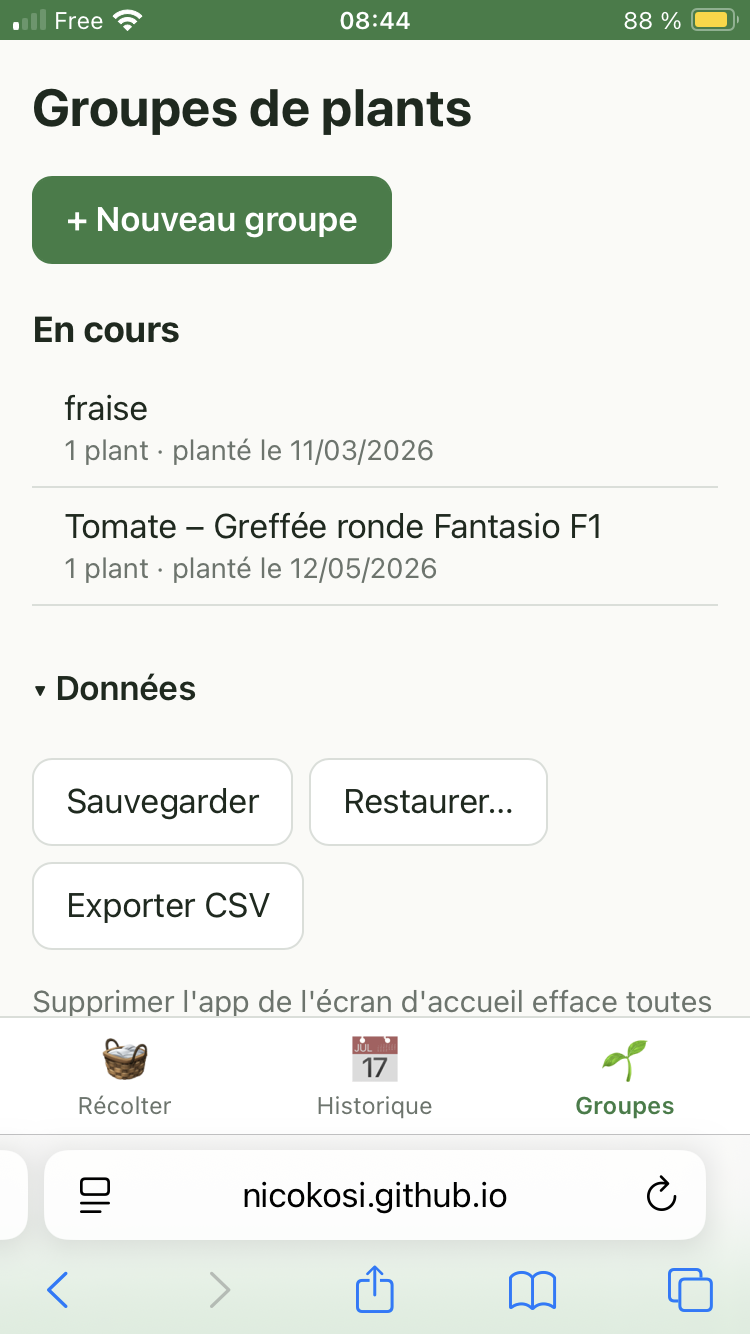
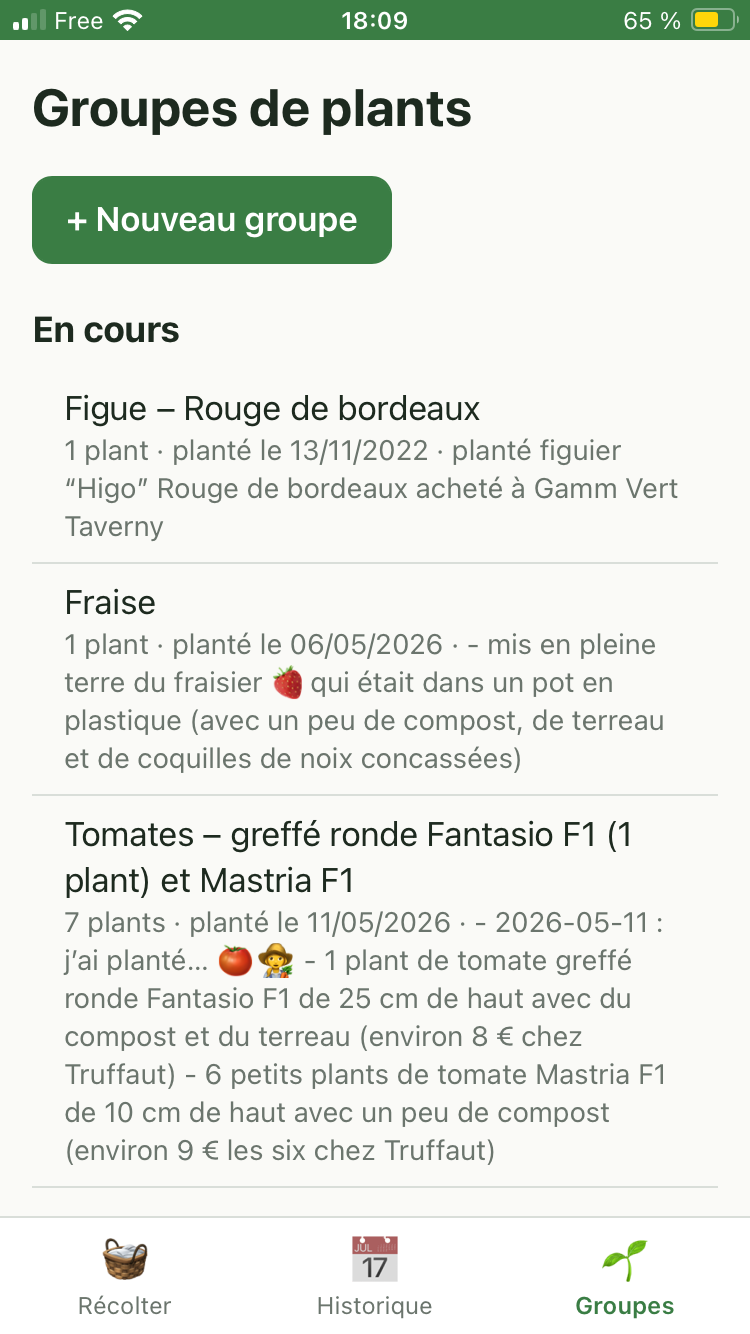
docs: nouvelles captures iOS et capture du menu Données

diff --git a/README.md b/README.md
@@ -8,9 +8,9 @@ Application : https://nicokosi.github.io/marecolte/
 
 ## Aperçu
 
-| Récolter | Saisie | Historique | Groupes |
-|---|---|---|---|
-| <img src="docs/captures/recolter.png" alt="Onglet Récolter : liste des groupes de plants en cours" width="200"> | <img src="docs/captures/saisie.png" alt="Saisie d'une récolte : nombre de pièces, date et note" width="200"> | <img src="docs/captures/historique.png" alt="Onglet Historique : bilan de l'année et détail des récoltes" width="200"> | <img src="docs/captures/groupes.png" alt="Onglet Groupes : groupes en cours et menu Données" width="200"> |
+| Récolter | Saisie | Historique | Groupes | Données |
+|---|---|---|---|---|
+| <img src="docs/captures/recolter.png" alt="Onglet Récolter : liste des groupes de plants en cours" width="160"> | <img src="docs/captures/saisie.png" alt="Saisie d'une récolte : nombre de pièces, date et note" width="160"> | <img src="docs/captures/historique.png" alt="Onglet Historique : bilan de l'année et détail des récoltes" width="160"> | <img src="docs/captures/groupes.png" alt="Onglet Groupes : groupes de plants en cours avec leurs notes" width="160"> | <img src="docs/captures/donnees.png" alt="Menu Données : sauvegarder, restaurer, exporter en CSV" width="160"> |
 
 ## Documentation
 
